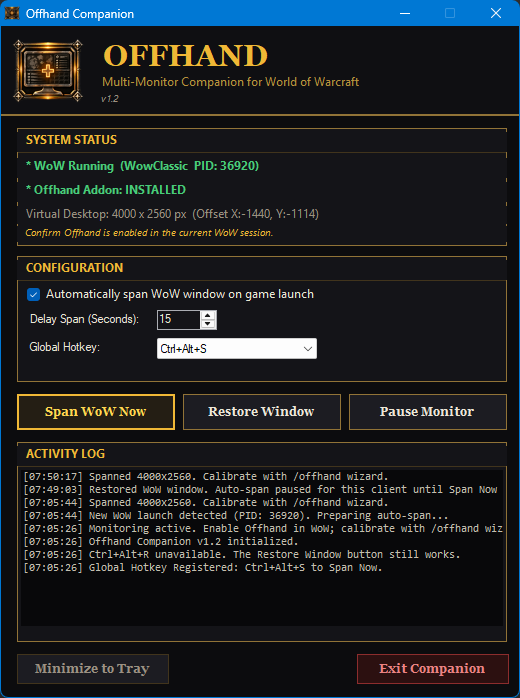
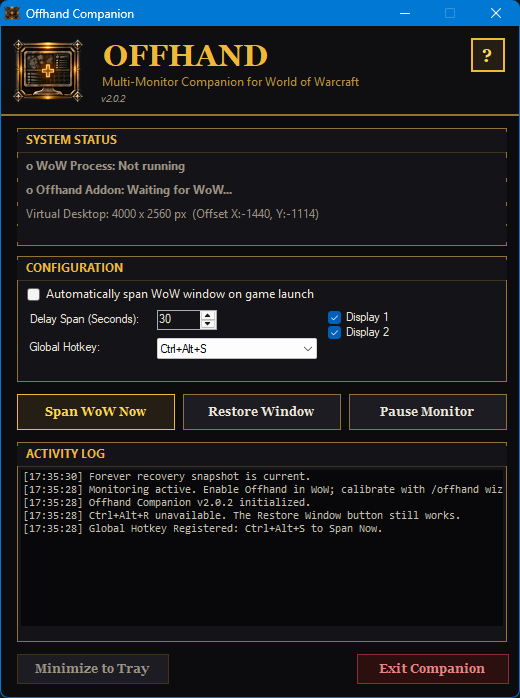
Consolidate Companion help page and refresh preview

diff --git a/Website/companion.html b/Website/companion.html
@@ -8,14 +8,14 @@
     <link rel="icon" type="image/png" href="assets/offhand-icon.png">
     <link rel="stylesheet" href="style.css">
 </head>
-<body>
+<body class="companion-page">
     <header class="navbar">
         <div class="nav-container">
             <a class="brand" href="index.html" style="text-decoration:none">
                 <img src="assets/offhand-icon.png" alt="Offhand Addon Icon" class="brand-medallion">
-                <div class="brand-text"><span class="brand-title">OFFHAND</span><span class="brand-subtitle">Companion status</span></div>
+                <div class="brand-text"><span class="brand-title">OFFHAND</span><span class="brand-subtitle">Dual-Wield Your Monitors</span></div>
             </a>
-            <nav class="nav-links"><a href="index.html">Home</a><a href="manual-spanning.html">Manual setup</a><a href="https://github.com/N4UX-GIT/Offhand-Companion">Source code</a></nav>
+            <nav class="nav-links" aria-label="Companion navigation"><a href="#status">Companion Status</a><a href="#manual-setup">Manual Setup</a><a href="https://github.com/N4UX-GIT/Offhand-Companion">Source Code</a></nav>
         </div>
     </header>
 
@@ -27,13 +27,13 @@
                 <p class="deck-intro-text">The Offhand addon itself remains available through CurseForge. Its optional Windows Companion is open source, but the current unsigned build is being incorrectly classified by some browser and antivirus systems. We are preparing a publicly trusted code-signed release.</p>
                 <p class="deck-intro-text"><strong>We do not recommend disabling Windows Security or bypassing a browser warning.</strong> Until the signed release is ready, use the manual setup below or review and build the public source yourself.</p>
                 <div class="hero-actions">
-                    <a href="manual-spanning.html" class="btn btn-wow-red btn-lg">Use Offhand without an EXE</a>
+                    <a href="#manual-setup" class="btn btn-wow-red btn-lg">Use Offhand without an EXE</a>
                     <a href="https://github.com/N4UX-GIT/Offhand-Companion" class="btn btn-wow-stone btn-lg">Review the source</a>
                 </div>
             </div>
         </section>
 
-        <section class="content-section">
+        <section class="content-section" id="status">
             <div class="section-header"><h2 class="section-title">Current status</h2></div>
             <div class="grid-3">
                 <article class="wow-card"><h3 class="wow-card-title">Addon download</h3><p class="wow-card-desc">Install and update the in-game addon normally through CurseForge. The addon package contains Lua UI code and does not include the Windows executable.</p><p><a href="https://www.curseforge.com/wow/addons/offhand">Get the addon on CurseForge</a></p></article>
@@ -49,6 +49,40 @@
                 <p>The Companion identifies the visible World of Warcraft window, changes its border and dimensions across displays selected by the user, and gives the addon exact display geometry. For WoW Forever it can also refresh Offhand's own recovery data after WoW closes.</p>
                 <p>It does not request administrator access, install a service or driver, inject code, read WoW memory, automate gameplay, collect telemetry, or download and execute code. Update checks occur only when the user clicks <strong>Check for Updates</strong>.</p>
                 <p>See the public <a href="https://github.com/N4UX-GIT/Offhand-Companion/blob/main/SECURITY.md">security disclosure</a>, <a href="https://github.com/N4UX-GIT/Offhand-Companion/blob/main/PRIVACY.md">privacy statement</a>, and <a href="https://github.com/N4UX-GIT/Offhand-Companion/actions">build history</a>.</p>
+            </div>
+        </section>
+
+        <section class="content-section" id="manual-setup">
+            <div class="section-header">
+                <div class="hero-badge">NO EXECUTABLE REQUIRED</div>
+                <h2 class="section-title" style="margin-top:18px">Manual Setup</h2>
+                <p class="deck-intro-text">The in-game addon can arrange its viewport and workspace after you resize the ordinary WoW window across both displays. This fallback requires no Companion download.</p>
+            </div>
+
+            <div class="grid-3">
+                <article class="wow-card">
+                    <h3 class="wow-card-title">Before you begin</h3>
+                    <ul class="wow-card-desc">
+                        <li>Install and enable Offhand through CurseForge.</li>
+                        <li>Arrange the monitor rectangles in Windows Display Settings to match their physical alignment.</li>
+                        <li>Manual spanning leaves the title bar visible and usually must be repeated after launching WoW.</li>
+                        <li>WoW Forever may not preserve every panel position across a complete restart without the Companion recovery bridge.</li>
+                    </ul>
+                </article>
+                <article class="wow-card">
+                    <h3 class="wow-card-title">Span the window</h3>
+                    <ol class="wow-card-desc">
+                        <li>Choose <strong>Options → Graphics → Display Mode → Windowed</strong>, not Windowed (Fullscreen).</li>
+                        <li>Restore WoW to a movable window and drag it onto the Mainhand display.</li>
+                        <li>Drag the window edges across the second display until WoW covers the intended area.</li>
+                        <li>Type <code>/reload</code>, then run <code>/offhand wizard</code> and complete the setup.</li>
+                    </ol>
+                </article>
+                <article class="wow-card">
+                    <h3 class="wow-card-title">Forever and recovery</h3>
+                    <p class="wow-card-desc">On WoW Forever, configure action bars and combat frames with Blizzard Edit Mode, save the layout as <strong>Offhand</strong>, and select it.</p>
+                    <p class="wow-card-desc">To return to one monitor, disable dual-monitor mode in <code>/offhand</code>, move WoW back to one display, and resize or maximize it normally. Use <code>/offhand gather</code> if an ordinary panel is inaccessible.</p>
+                </article>
             </div>
         </section>
     </main>

diff --git a/Website/manual-spanning.html b/Website/manual-spanning.html
@@ -5,53 +5,14 @@
     <meta name="viewport" content="width=device-width, initial-scale=1.0">
     <title>Offhand | Manual setup without the Companion</title>
     <meta name="description" content="Use the Offhand World of Warcraft addon across two monitors without downloading a Windows executable.">
+    <meta http-equiv="refresh" content="0; url=companion.html#manual-setup">
+    <link rel="canonical" href="https://offhand-wow.onrender.com/companion.html#manual-setup">
     <link rel="icon" type="image/png" href="assets/offhand-icon.png">
     <link rel="stylesheet" href="style.css">
 </head>
-<body>
-    <header class="navbar"><div class="nav-container"><a class="brand" href="index.html" style="text-decoration:none"><img src="assets/offhand-icon.png" alt="Offhand Addon Icon" class="brand-medallion"><div class="brand-text"><span class="brand-title">OFFHAND</span><span class="brand-subtitle">Manual setup</span></div></a><nav class="nav-links"><a href="index.html">Home</a><a href="companion.html">Companion status</a><a href="https://www.curseforge.com/wow/addons/offhand">CurseForge</a></nav></div></header>
-
+<body class="companion-page">
     <main class="content-deck" style="margin-top:48px">
-        <section class="content-section">
-            <div class="deck-intro-banner">
-                <div class="hero-badge">NO EXECUTABLE REQUIRED</div>
-                <h1 style="color:var(--rio-gold);margin:18px 0 12px">Manually span World of Warcraft</h1>
-                <p class="deck-intro-text">The in-game addon can arrange its viewport and workspace after you resize the ordinary WoW window across both displays. This fallback requires no Companion download.</p>
-            </div>
-        </section>
-
-        <section class="content-section">
-            <div class="section-header"><h2 class="section-title">Before you begin</h2></div>
-            <div class="faq-card" style="padding:24px">
-                <ul>
-                    <li>Install and enable Offhand through CurseForge.</li>
-                    <li>In Windows Display Settings, arrange the monitor rectangles to match their physical left/right and vertical alignment.</li>
-                    <li>This method leaves the Windows title bar visible and usually must be repeated after launching WoW.</li>
-                    <li>WoW Forever may not preserve every Offhand panel position across a complete client restart without the Companion recovery bridge.</li>
-                </ul>
-            </div>
-        </section>
-
-        <section class="content-section">
-            <div class="section-header"><h2 class="section-title">Setup steps</h2></div>
-            <div class="faq-card" style="padding:24px">
-                <ol>
-                    <li>Open WoW and choose <strong>Options → Graphics → Display Mode → Windowed</strong>. Do not choose Windowed (Fullscreen).</li>
-                    <li>If the window is maximized, restore it to a movable window. Drag its title bar onto the monitor that will contain the game view.</li>
-                    <li>Drag the left or right window edge across the second monitor. Adjust the top, bottom, and outer edges until the WoW window covers the desired area of both displays.</li>
-                    <li>Return to WoW and type <code>/reload</code> so Offhand reads the final window dimensions.</li>
-                    <li>Type <code>/offhand wizard</code> and complete the setup. Choose which side is Mainhand and which side is the workspace.</li>
-                    <li>On WoW Forever, configure action bars and combat frames with Blizzard Edit Mode, save the layout as <strong>Offhand</strong>, and select it.</li>
-                </ol>
-            </div>
-        </section>
-
-        <section class="content-section">
-            <div class="section-header"><h2 class="section-title">Returning to one monitor</h2></div>
-            <div class="faq-card" style="padding:24px">
-                <p>Disable Offhand's dual-monitor mode in <code>/offhand</code>, then drag the WoW window back onto one display and resize or maximize it normally. If an ordinary panel is inaccessible, use <code>/offhand gather</code>.</p>
-            </div>
-        </section>
+        <section class="content-section"><div class="deck-intro-banner"><h1 style="color:var(--rio-gold)">Manual Setup has moved</h1><p class="deck-intro-text">Continue to the consolidated <a href="companion.html#manual-setup">Companion Manual Setup</a>.</p></div></section>
     </main>
 </body>
 </html>

diff --git a/Website/index.html b/Website/index.html
@@ -471,7 +471,7 @@
             <div class="footer-nav">
                 <a href="https://www.curseforge.com/wow/addons/offhand" target="_blank" style="display: inline-flex; align-items: center; gap: 6px;"><svg width="15" height="15" fill="currentColor" viewBox="0 0 24 24" xmlns="http://www.w3.org/2000/svg"><title>CurseForge</title><path d="M18.326 9.2145S23.2261 8.4418 24 6.1882h-7.5066V4.4H0l2.0318 2.3576V9.173s5.1267-.2665 7.1098 1.2372c2.7146 2.516-3.053 5.917-3.053 5.917L5.0995 19.6c1.5465-1.4726 4.494-3.3775 9.8983-3.2857-2.0565.65-4.1245 1.6651-5.7344 3.2857h10.9248l-1.0288-3.2726s-7.918-4.6688-.8336-7.1127z"/></svg>CurseForge</a>
                 <a href="companion.html">Companion options</a>
-                <a href="manual-spanning.html">Manual setup</a>
+                <a href="companion.html#manual-setup">Manual setup</a>
                 <a href="https://github.com/N4UX-GIT/Offhand-DualMonitor/releases/latest" target="_blank">Releases</a>
                 <a href="https://github.com/N4UX-GIT/Offhand-DualMonitor" target="_blank" style="display: inline-flex; align-items: center; gap: 6px;"><svg width="15" height="15" fill="currentColor" viewBox="0 0 24 24" xmlns="http://www.w3.org/2000/svg"><title>GitHub</title><path d="M12 .297c-6.63 0-12 5.373-12 12 0 5.303 3.438 9.8 8.205 11.385.6.113.82-.258.82-.577 0-.285-.01-1.04-.015-2.04-3.338.724-4.042-1.61-4.042-1.61C4.422 18.07 3.633 17.7 3.633 17.7c-1.087-.744.084-.729.084-.729 1.205.084 1.838 1.236 1.838 1.236 1.07 1.835 2.809 1.305 3.495.998.108-.776.417-1.305.76-1.605-2.665-.3-5.466-1.332-5.466-5.93 0-1.31.465-2.38 1.235-3.22-.135-.303-.54-1.523.105-3.176 0 0 1.005-.322 3.3 1.23.96-.267 1.98-.399 3-.405 1.02.006 2.04.138 3 .405 2.28-1.552 3.285-1.23 3.285-1.23.645 1.653.24 2.873.12 3.176.765.84 1.23 1.91 1.23 3.22 0 4.61-2.805 5.625-5.475 5.92.42.36.81 1.096.81 2.22 0 1.606-.015 2.896-.015 3.286 0 .315.21.69.825.57C20.565 22.092 24 17.592 24 12.297c0-6.627-5.373-12-12-12"/></svg>GitHub</a>
                 <a href="#setup">Setup Guide</a>

diff --git a/Website/style.css b/Website/style.css
@@ -282,6 +282,11 @@ code {
     box-shadow: 0 0 8px var(--rio-gold);
 }
 
+#status,
+#manual-setup {
+    scroll-margin-top: 110px;
+}
+
 /* ============================================================================
    Hero Section
    ============================================================================ */
@@ -1002,6 +1007,24 @@ kbd {
     }
     .nav-links {
         display: none;
+    }
+    .companion-page .nav-container {
+        flex-wrap: wrap;
+        justify-content: center;
+    }
+    .companion-page .brand {
+        width: 100%;
+        justify-content: center;
+    }
+    .companion-page .nav-links {
+        display: flex;
+        width: 100%;
+        justify-content: center;
+        flex-wrap: wrap;
+        gap: 10px 16px;
+    }
+    .companion-page .nav-links a {
+        font-size: 0.82rem;
     }
     .footer-container {
         flex-direction: column;
